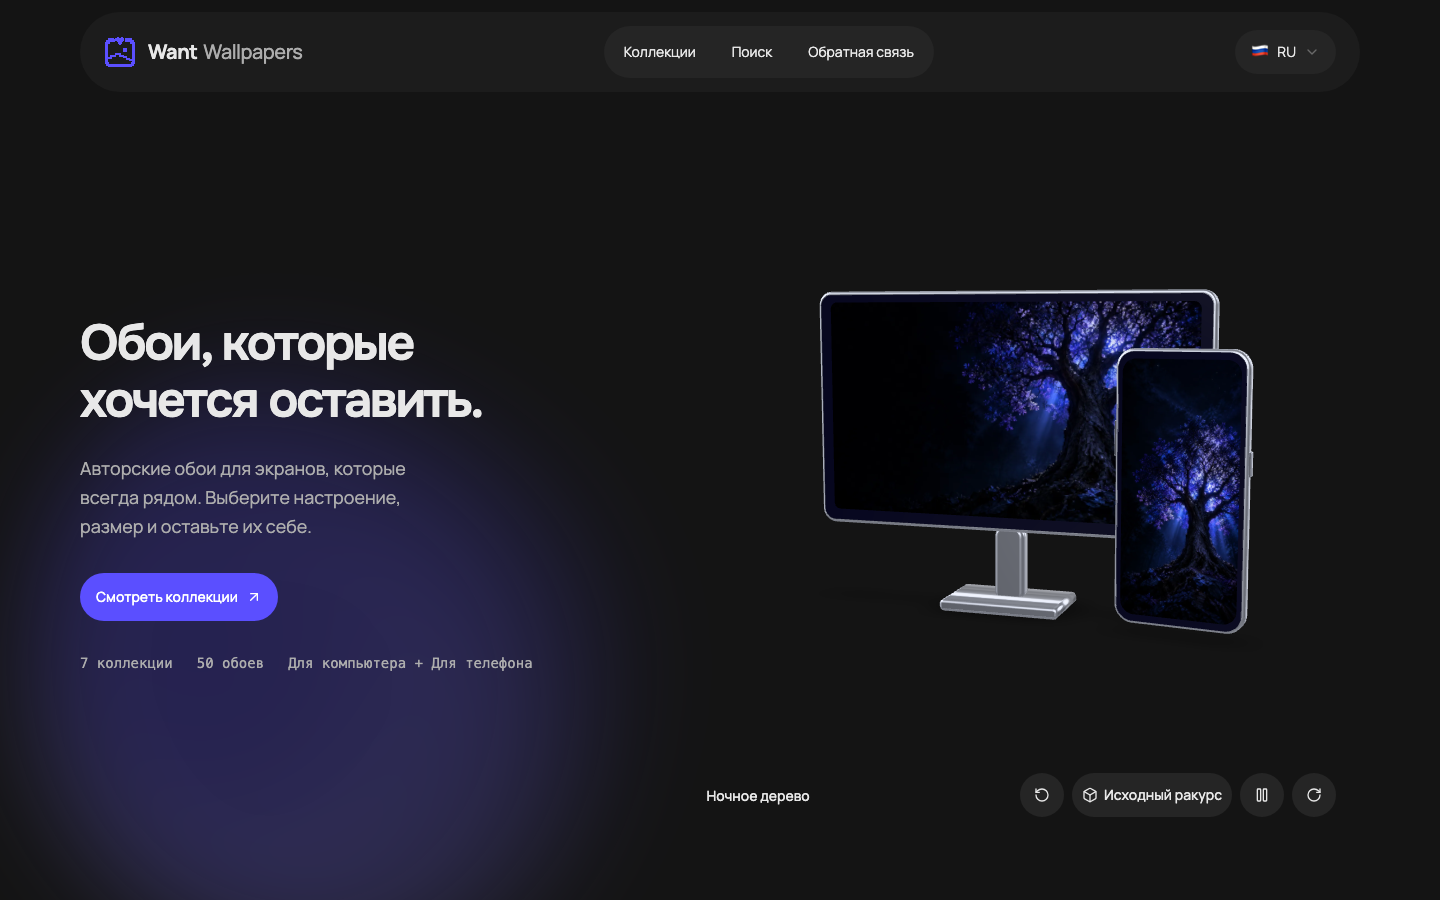
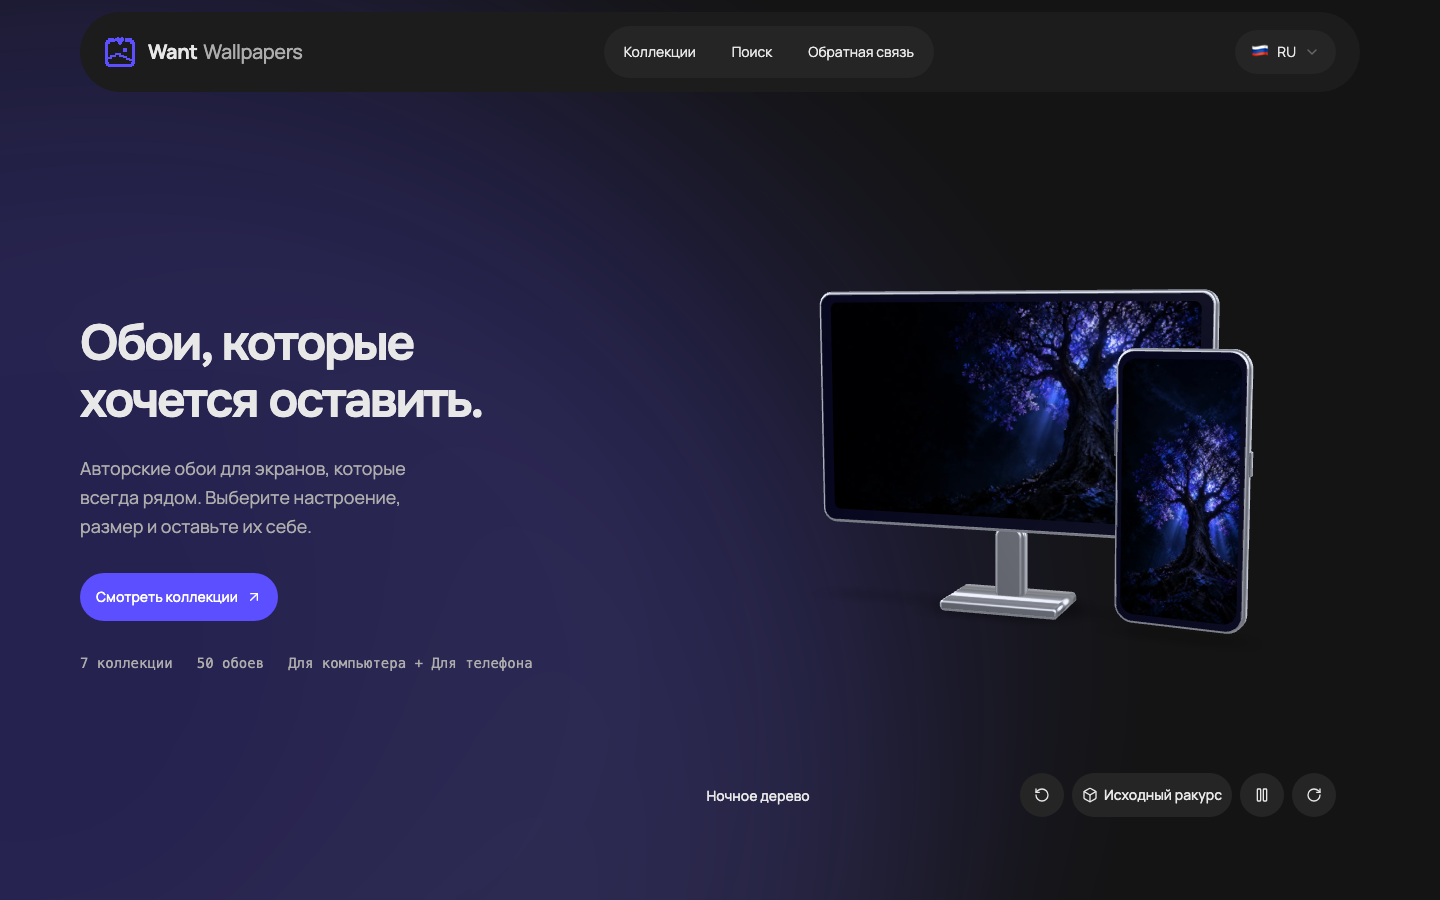
feat(background): enlarge sphere to a viewport-wide glow

diff --git a/frontend/tests/ui/background-motion.spec.ts b/frontend/tests/ui/background-motion.spec.ts
@@ -158,7 +158,8 @@ test.describe('gradient sphere background', () => {
           return { x: rect.x + rect.width / 2, y: rect.y + rect.height / 2, diameter: rect.width };
         }, time);
         if (name === 'home') {
-          expect(position.diameter).toBeLessThanOrEqual(Math.min(width, 900) * .81);
+          expect(position.diameter).toBeGreaterThan(width);
+          expect(position.diameter).toBeLessThanOrEqual(width * 1.5);
           expect(position.x / width).toBeGreaterThan(width < 768 ? .3 : .2);
           expect(position.x / width).toBeLessThan(width < 768 ? .7 : .8);
           expect(position.y / 900).toBeGreaterThan(width < 768 ? .3 : .2);

diff --git a/frontend/src/styles/global.css b/frontend/src/styles/global.css
@@ -495,7 +495,7 @@ html[data-public-background] body { isolation: isolate; }
   position: absolute;
   left: 50%;
   top: 50%;
-  width: clamp(14rem, 72vmin, 56rem);
+  width: clamp(28rem, 120vw, 100rem);
   aspect-ratio: 1;
   border-radius: 50%;
   background: radial-gradient(ellipse at 45% 50%, var(--primary) 25%, transparent 70%);

diff --git a/AGENTS.md b/AGENTS.md
@@ -36,7 +36,7 @@ Read [DESIGN.md](DESIGN.md) before changing a visual surface. The site is a gall
 - Reuse Tailwind v4 tokens and installed Radix-based shadcn sources. Fields have 12 px corners, media and panels 24 px, prominent surfaces 32 px and CTA buttons capsule corners. Keep accessible labels and 44 px targets.
 - Compose long text as readable sections up to 65ch. Keep legal/supporting text in the same page composition and preserve legal wording. Contact rows retain their current destinations. Comments remain a compact guest/self feed with existing actions.
 - Wallpaper pages use two columns from 1024 px (60% image, 40% controls, 32 px gap). A constant viewer frame contains landscape and portrait images without cropping, with a blurred artwork backdrop filling unused space; height is clamp(420px, 60svh, 640px). Below 1024 px, viewer/navigation/controls stack with clamp(320px, 58svh, 520px) frame height. Arrows stay beneath the frame. Format, download, compact ratings, description/license/tags occupy the control panel. Comments precede long stories. Long stories, legal and support copy use up to three columns, minimum 18rem and 32 px gaps. Preserve 16 px body text and 44 px targets.
-- Public pages and /ui-kit/ use one softly blurred violet sphere made from three overlapping CSS gradients on the graphite background. Keep it behind content in a fixed, clipped, non-interactive container, with diameter clamp(14rem, 72vmin, 56rem), fixed 48 px blur and constant .28 opacity. A 28-second transform-only cycle crosses the upper-right, middle-left, lower-left and lower-right viewport regions; inner gradients rotate and scale over 19 and 23 seconds. Reduce travel below 768 px and preserve the container and animation phase during Astro client navigation. Reuse the localized pause/resume control, save only an explicit choice under want-background-motion, and pause every layer in hidden tabs. Reduced motion and no JavaScript keep a static background; forced colors remove decoration. Administration inherits the palette without the animated background.
+- Public pages and /ui-kit/ use one softly blurred violet sphere made from three overlapping CSS gradients on the graphite background. Keep it behind content in a fixed, clipped, non-interactive container, with diameter clamp(28rem, 120vw, 100rem), fixed 48 px blur and constant .28 opacity. A 28-second transform-only cycle crosses the upper-right, middle-left, lower-left and lower-right viewport regions; inner gradients rotate and scale over 19 and 23 seconds. Reduce travel below 768 px and preserve the container and animation phase during Astro client navigation. Reuse the localized pause/resume control, save only an explicit choice under want-background-motion, and pause every layer in hidden tabs. Reduced motion and no JavaScript keep a static background; forced colors remove decoration. Administration inherits the palette without the animated background.
 - Use opaque reading surfaces and clear filled states. Avoid large colored halos on controls, cards and the device stage. Main text is soft white; supporting text is neutral.
 - Motion includes 120 ms control feedback, 180 ms wallpaper transitions and the slow background sphere. Gallery hover and focus use a visible 2 px logo-color wave (2.6 seconds per circuit), without tilt, movement or scaling; reduced motion keeps it static. The restrained wand effect follows active links and buttons, including nested labels and SVG icons, and excludes ordinary text, editable fields and media. It preserves the native cursor and selection, uses at most three 12 px sparks with .45 maximum opacity, a 160 ms spawn interval and 450 ms duration, and has no halo or scaling; download confetti lasts 800 ms and never delays the PNG download. Disable decorative interaction effects for reduced motion, unsuitable pointers and forced colors. The local 3D hero loads automatically and rotates at 5 degrees/second, with pause/resume, hidden-tab/offscreen suspension, static reduced-motion rendering, retry and manual control. Completed manual rotation selects a random different work and switches both textures after loading. Automatic rotation and Reset preserve the wallpaper; texture failures retain the previous pair. Video covers still require a press.
 - Liquid glass uses 68% neutral translucent fills, 20 px blur, 120% saturation and shared glass tokens and soft light/shadow on navigation, controls, dialogs and card captions. Reading surfaces stay opaque; unsupported backdrop-filter, reduced transparency and forced colors use opaque fills. No decorative borders.

diff --git a/DESIGN.md b/DESIGN.md
@@ -77,7 +77,7 @@ Control feedback takes at most 120 ms. Text, gallery media, menus, dialogs, acco
 
 Wallpaper image transitions use a brief 180 ms opacity change. The frame and controls do not move. Reduced motion removes the transition. Native scrolling remains direct; no entrance or scroll-reveal animations are used.
 
-Public pages and /ui-kit/ place one softly blurred violet sphere behind the content on the solid #141414 graphite ground. A fixed, clipped container keeps it outside layout and pointer input. Its diameter is clamp(14rem, 72vmin, 56rem), with a fixed 48 px blur and constant .28 opacity. Three overlapping radial gradients use primary, primary-active and a lighter violet mixed from primary and white. A 28-second closed cycle travels through the upper-right, middle-left, lower-left and lower-right viewport regions. Its reach is 26vw horizontally and 24vh vertically around the viewport center; below 768 px this reduces to 18vw and 18vh. Two inner gradients rotate in opposite directions and change scale over 19 and 23 seconds, producing flowing light and a soft changing silhouette. Only transform animates. Astro client navigation preserves the container and animation phase. CSS draws the sphere without Canvas, external resources or additional dependencies. Administration uses the shared palette without decoration.
+Public pages and /ui-kit/ place one softly blurred violet sphere behind the content on the solid #141414 graphite ground. A fixed, clipped container keeps it outside layout and pointer input. Its diameter is clamp(28rem, 120vw, 100rem), with a fixed 48 px blur and constant .28 opacity. Three overlapping radial gradients use primary, primary-active and a lighter violet mixed from primary and white. A 28-second closed cycle travels through the upper-right, middle-left, lower-left and lower-right viewport regions. Its reach is 26vw horizontally and 24vh vertically around the viewport center; below 768 px this reduces to 18vw and 18vh. Two inner gradients rotate in opposite directions and change scale over 19 and 23 seconds, producing flowing light and a soft changing silhouette. Only transform animates. Astro client navigation preserves the container and animation phase. CSS draws the sphere without Canvas, external resources or additional dependencies. Administration uses the shared palette without decoration.
 
 A localized footer button pauses or resumes the sphere. Only an explicit choice writes running or paused to localStorage under want-background-motion. An unknown stored value defaults to running; unavailable storage keeps the choice in the current page. The setting stays in the browser and is described on the cookie page. Hidden tabs and the pause control stop every animated layer together. Reduced motion displays a static background and hides the control; forced colors hide decoration. Without JavaScript the background is static and the control stays hidden.
 
